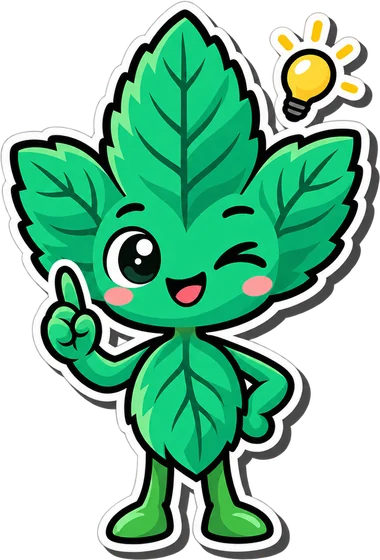
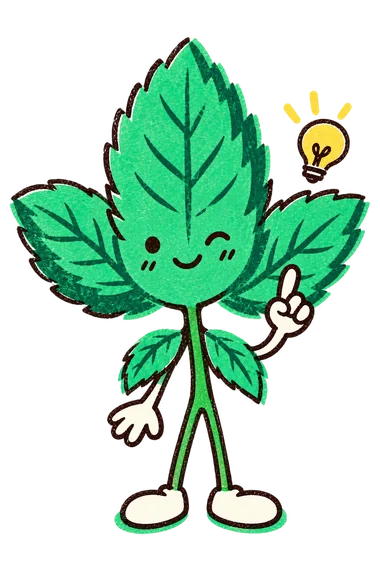
design(mascotte): Naânaa redessinée en style riso décalé (8 poses)
- 8 poses générées par Codex à partir de la piste C choisie par Amine
  (design/naanaa-v2/c-riso.png) : PNG transparents 1024×1536 dans
  design/naanaa-v2/riso/, convertis en WebP 380×570 dans public/mascotte
  (mêmes noms : toutes les pages sont à jour)
- Image de partage régénérée avec la nouvelle Naânaa

diff --git a/CLAUDE.md b/CLAUDE.md
@@ -76,8 +76,10 @@ Développeur : Amine Benboubker / N0.ma / Casablanca.
   `design/logo/b-cuillere.py` (contours d'Unbounded wght 800) puis `design/logo/icones.py` (favicons,
   icônes PWA, `logo-bayen.svg`, `og-default`). Le sigle seul = icône d'app et bouton flottant `.sigle-fab`
   (apparaît au défilement, ouvre le menu).
-- Mascotte Naânaa (brin de menthe) : `public/mascotte/naanaa-<pose>.webp` (salut, astuce, bravo, loupe,
-  oups, nuit, scan, courses), en médaillon rond dans `.naanaa`. Couvertures du journal :
+- Mascotte Naânaa (brin de menthe), style « riso décalé » (refaite par Codex le 15/10/2026) :
+  `public/mascotte/naanaa-<pose>.webp` (salut, astuce, bravo, loupe, oups, nuit, scan, courses), en médaillon
+  rond dans `.naanaa`. Sources PNG transparentes 1024×1536 : `design/naanaa-v2/riso/` (référence de style :
+  `design/naanaa-v2/c-riso.png` — toute nouvelle pose part de là, via le plugin Codex). Couvertures du journal :
   `public/blog/covers/<slug>.webp` (aussi posées dans Directus par `scripts/set-blog-covers.py`).
 - Visuels : photos à plat, objets à ombre nette sur aplat de couleur, sans texte (générés sur Magnific).
 - **Darija** : tout texte visible passe par `t()` (aucun français en dur), y compris les bulles de
